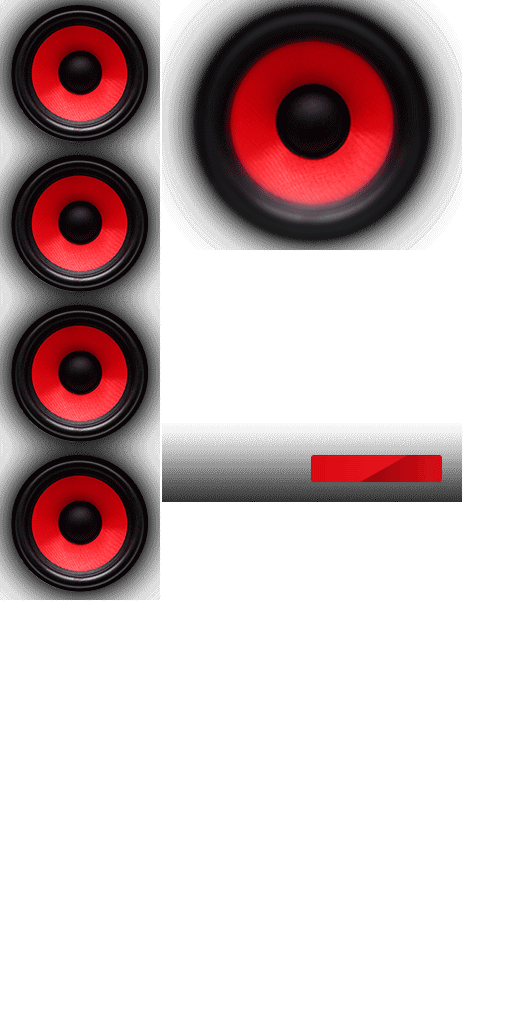
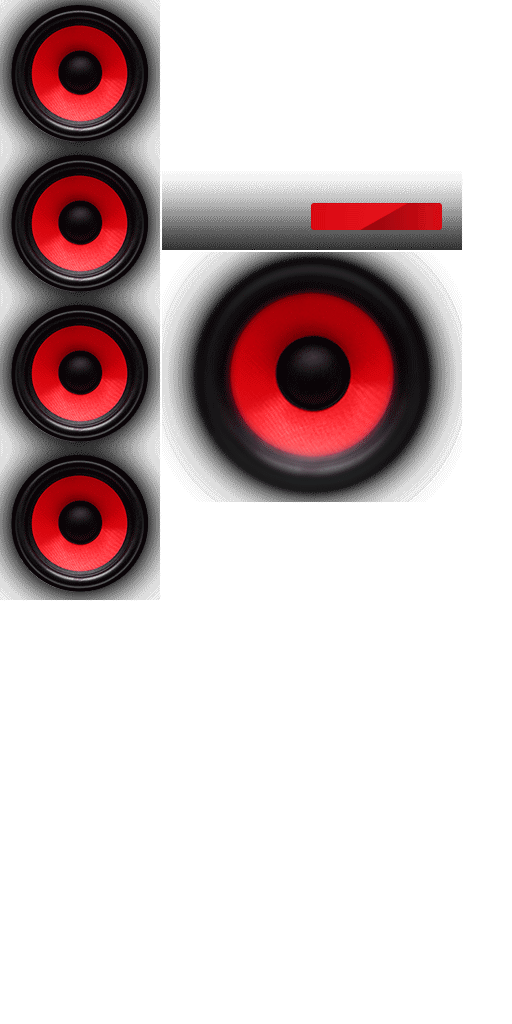
Add files via upload

Changed region(s): [[0.3125, 0.0, 0.9062, 0.5]]

diff --git a/Sound/CT1222_Sound_160x600.js b/Sound/CT1222_Sound_160x600.js
@@ -20,7 +20,7 @@ lib.properties = {
 
 
 lib.ssMetadata = [
-		{name:"CT1222_Sound_160x600_atlas_P_", frames: [[0,0,160,600],[162,0,300,250],[162,252,300,250]]}
+		{name:"CT1222_Sound_160x600_atlas_P_", frames: [[0,0,160,600],[162,252,300,250],[162,0,300,250]]}
 ];
 
 
@@ -384,9 +384,14 @@ p.nominalBounds = null;
 
 	// timeline functions:
 	this.frame_0 = function() {
-		this.clickthru_btn.on("click", function(evt){
+		if(!this.alreadyyExecuted){
+		this.alreadyyExecuted=true;
+			this.clickthru_btn.on("click", function(evt){
 		  window.open(clickTag, "_blank");
 		});
+		} else {
+		gotoAndPlay(2);
+		}
 	}
 	this.frame_359 = function() {
 		this.stop();

diff --git a/Sound/CT1222_Sound_300x250.js b/Sound/CT1222_Sound_300x250.js
@@ -20,7 +20,7 @@ lib.properties = {
 
 
 lib.ssMetadata = [
-		{name:"CT1222_Sound_300x250_atlas_P_", frames: [[0,504,300,250],[0,252,300,250],[0,0,300,250]]}
+		{name:"CT1222_Sound_300x250_atlas_P_", frames: [[0,252,300,250],[0,0,300,250],[0,504,300,250]]}
 ];
 
 
@@ -375,9 +375,14 @@ p.nominalBounds = null;
 
 	// timeline functions:
 	this.frame_0 = function() {
-		this.clickthru_btn.on("click", function(evt){
+		if(!this.alreadyyExecuted){
+		this.alreadyyExecuted=true;
+			this.clickthru_btn.on("click", function(evt){
 		  window.open(clickTag, "_blank");
 		});
+		} else {
+		gotoAndPlay(2);
+		}
 	}
 	this.frame_359 = function() {
 		this.stop();

diff --git a/Sound/CT1222_Sound_300x600.js b/Sound/CT1222_Sound_300x600.js
@@ -20,7 +20,7 @@ lib.properties = {
 
 
 lib.ssMetadata = [
-		{name:"CT1222_Sound_300x600_atlas_P_", frames: [[0,602,300,250],[0,0,300,600],[302,0,300,250]]}
+		{name:"CT1222_Sound_300x600_atlas_P_", frames: [[302,0,300,250],[0,0,300,600],[0,602,300,250]]}
 ];
 
 
@@ -381,9 +381,14 @@ p.nominalBounds = null;
 
 	// timeline functions:
 	this.frame_0 = function() {
-		this.clickthru_btn.on("click", function(evt){
+		if(!this.alreadyyExecuted){
+		this.alreadyyExecuted=true;
+			this.clickthru_btn.on("click", function(evt){
 		  window.open(clickTag, "_blank");
 		});
+		} else {
+		gotoAndPlay(2);
+		}
 	}
 	this.frame_359 = function() {
 		this.stop();

diff --git a/Sound/CT1222_Sound_728x90.js b/Sound/CT1222_Sound_728x90.js
@@ -291,9 +291,14 @@ p.nominalBounds = null;
 
 	// timeline functions:
 	this.frame_0 = function() {
-		this.clickthru_btn.on("click", function(evt){
+		if(!this.alreadyyExecuted){
+		this.alreadyyExecuted=true;
+			this.clickthru_btn.on("click", function(evt){
 		  window.open(clickTag, "_blank");
 		});
+		} else {
+		gotoAndPlay(2);
+		}
 	}
 	this.frame_359 = function() {
 		this.stop();
